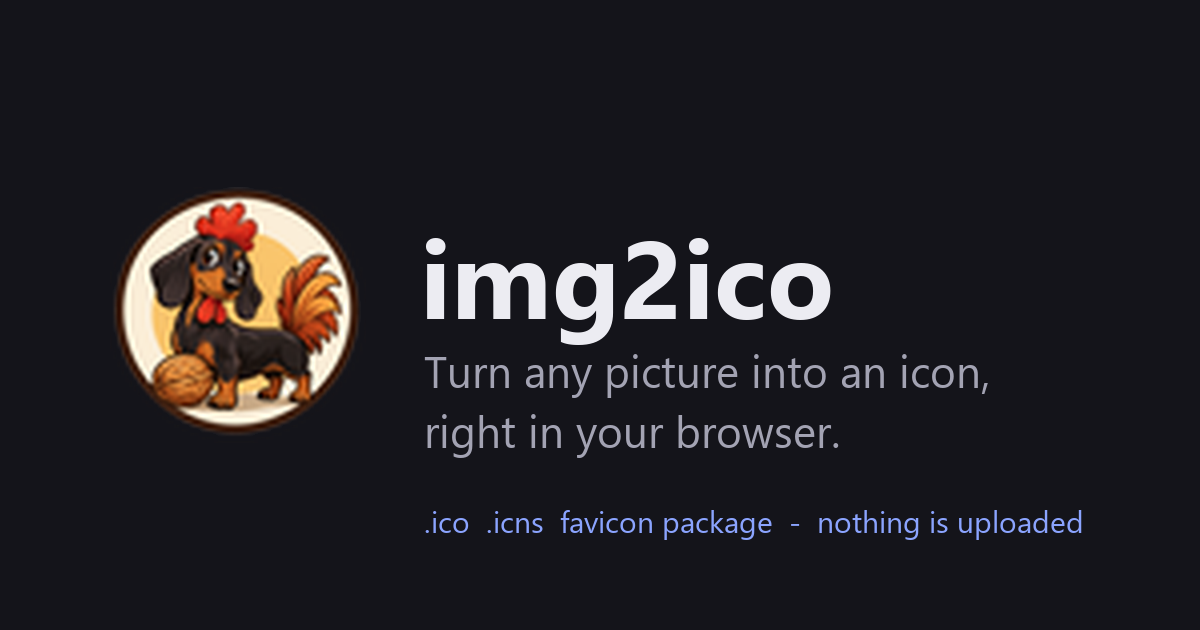
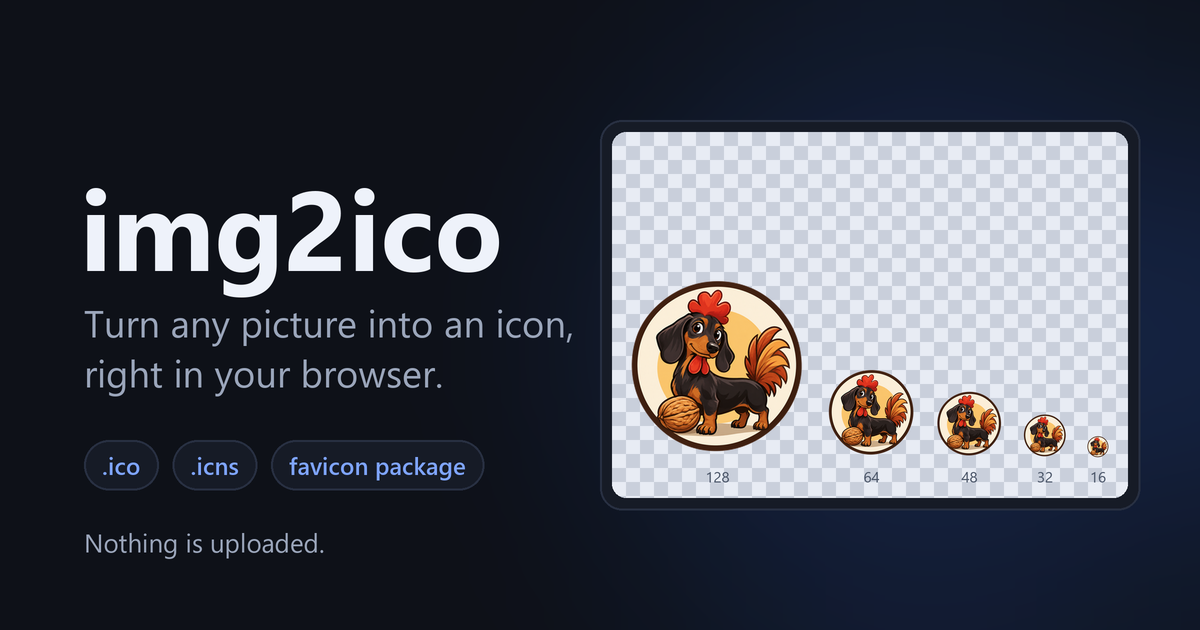
A link-preview picture that shows what the page does (#85)
## What it does
Replaces the placeholder `web/public/og-image.png` (the picture link
previews show, 1200 × 630): the logo in the sizes an icon file holds
(128, 64, 48, 32, 16, labelled with their real pixel sizes) on the
checkerboard of the preview, with the name, the one-line promise, the
file types and "Nothing is uploaded", in the dark colors of the page.

- One picture for all languages (English text); the `og:image` tags in
`web/seo.ts` already point to it, size and alt text unchanged.
- `docs/web-plan.md` updated.

## Checked
- The picture itself (looked at; 1200 × 630, 237 KB). vitest (210)
unchanged and green.

## Not tried
- How it looks in a real link preview of a chat or social network: that
needs the page deployed.

diff --git a/docs/web-plan.md b/docs/web-plan.md
@@ -92,7 +92,7 @@ Being found counts as part of the page, so it is built in from the start and che
 - **Structure:** one `h1`, headings in order, landmarks (header, main, footer), `lang` follows the language in use.
 - **Check:** `npx lighthouse <address> --only-categories=seo,accessibility,best-practices,performance` should give 100 for the first three. `web/seo.test.ts` tests the generated tags and text. Last measured on the start page: performance 96, accessibility 100, best practices 100, SEO 100 (what is left is the engine's 4 MB).
 - **When languages are added:** one page per language (`/de/`, `/es/`, `/pt-br/`, `/fr/`) with `hreflang` links, not one page that switches by script; crawlers index what the address returns. The detection of the browser language only chooses where a first visit lands.
-- **When the design is done:** the link-preview picture `web/public/og-image.png` is a plain placeholder and is redone then.
+- **The link-preview picture** `web/public/og-image.png` (1200 × 630) shows the logo in the sizes an icon file holds, on the checkerboard of the preview, with the name and the one-line promise, in the dark colors of the page. It is one picture for all languages (English text).
 
 ## Checks
 
